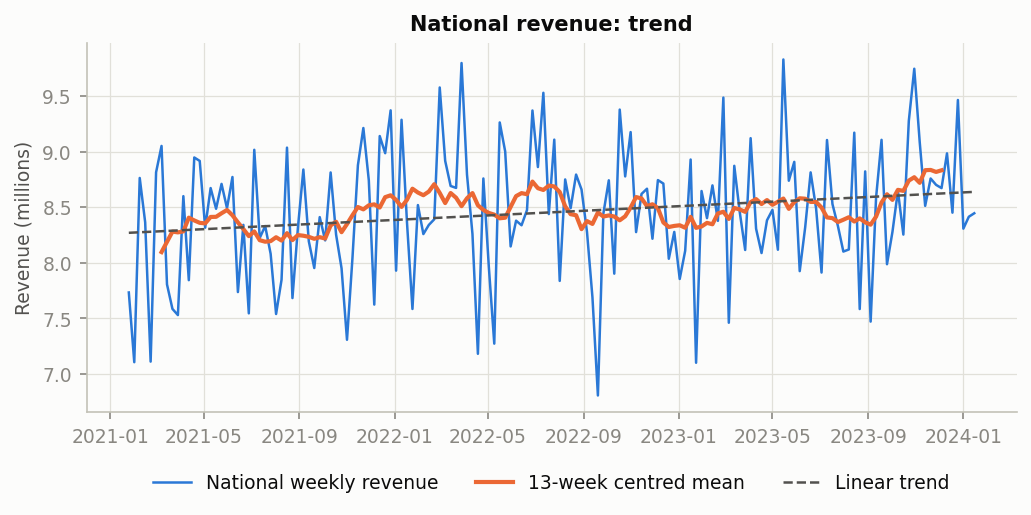
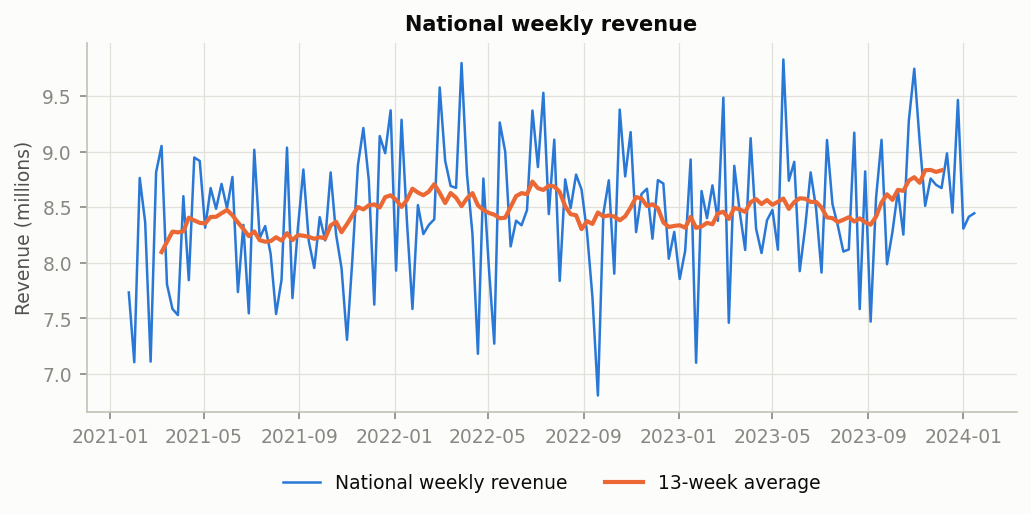
EDA trend: replace the trend tests with revenue per 52-week year and year-on-year growth (2.1% then 0.4%, a slowdown within the range of noise); README wording follows

diff --git a/scripts/01_eda/eda.py b/scripts/01_eda/eda.py
@@ -32,8 +32,6 @@ OUT = OUTPUTS / "01_eda"
 N_SIM = 10_000
 MAX_LAG = 8
 SEASON = 52
-# Newey-West bandwidth rule floor(4 (T/100)^(2/9)).
-def nw_lags(n): return int(np.floor(4 * (n / 100) ** (2 / 9)))
 
 DIVERGING = LinearSegmentedColormap.from_list(
     "div", ["#eb6834", "#f3f2ee", "#2a78d6"])
@@ -104,38 +102,30 @@ def national_series(df):
   return df.groupby(TIME)["revenue"].sum()
 
 
-def trend_test(nat):
-  y = nat.to_numpy()
-  n = len(y)
-  t = np.arange(n) / 52.0
-  X = sm.add_constant(t)
-  fit = sm.OLS(y, X).fit(cov_type="HAC", cov_kwds={"maxlags": nw_lags(n)})
-  res = {"slope_per_year_pct_of_mean": float(100 * fit.params[1] / y.mean()),
-         "t": float(fit.tvalues[1]), "p_value": float(fit.pvalues[1]),
-         "hac_maxlags": nw_lags(n)}
-  # Is a straight line enough? Add yearly hinge terms (a piecewise-linear trend
-  # with breaks at weeks 52 and 104) and test them jointly with HAC SEs.
-  tw = np.arange(n)
-  Xh = np.column_stack([X, np.maximum(0, tw - 52) / 52.0, np.maximum(0, tw - 104) / 52.0])
-  fit_h = sm.OLS(y, Xh).fit(cov_type="HAC", cov_kwds={"maxlags": nw_lags(n)})
-  wald = fit_h.wald_test(np.eye(4)[2:], scalar=True)
-  res["piecewise_yearly_vs_linear"] = {
-      "wald_stat": float(wald.statistic), "df": 2, "p_value": float(wald.pvalue),
-      "linear_rejected_5pct": bool(wald.pvalue < 0.05)}
-  res["first_52_vs_last_52_revenue_pct"] = float(100 * (y[-52:].sum() / y[:52].sum() - 1))
+def trend(nat):
+  """National revenue per 52-week year and its year-on-year growth.
+
+  The data start in late January, so each "year" is a block of 52 weeks, not a
+  calendar year.
+  """
+  weeks = nat.index
+  years = []
+  for k in range(len(nat) // SEASON):
+    block = nat.iloc[k * SEASON:(k + 1) * SEASON]
+    years.append({"year": k + 1, "first_week": str(weeks[k * SEASON].date()),
+                  "last_week": str(weeks[(k + 1) * SEASON - 1].date()),
+                  "revenue": float(block.sum())})
+  for prev, cur in zip(years, years[1:]):
+    cur["growth_vs_previous_year"] = cur["revenue"] / prev["revenue"] - 1
 
   fig, ax = plt.subplots(figsize=(8, 3.2))
-  ax.plot(nat.index, y / 1e6, color=PALETTE[0], lw=1.2, label="National weekly revenue")
-  ma = pd.Series(y).rolling(13, center=True).mean()
-  ax.plot(nat.index, ma / 1e6, color=PALETTE[1], lw=2, label="13-week centred mean")
-  fit = sm.OLS(y, X).fit()
-  ax.plot(nat.index, fit.fittedvalues / 1e6, color=INK_2, lw=1.2, ls="--",
-          label="Linear trend")
+  ax.plot(weeks, nat.to_numpy() / 1e6, color=PALETTE[0], lw=1.2, label="National weekly revenue")
+  ma = nat.rolling(13, center=True).mean()
+  ax.plot(weeks, ma.to_numpy() / 1e6, color=PALETTE[1], lw=2, label="13-week average")
   ax.set_ylabel("Revenue (millions)")
-  ax.set_title("National revenue: trend")
-  ax.legend(loc="upper center", bbox_to_anchor=(0.5, -0.12), ncol=3)
-  res["figure"] = savefig(fig, "national_trend.png")
-  return res
+  ax.set_title("National weekly revenue")
+  ax.legend(loc="upper center", bbox_to_anchor=(0.5, -0.12), ncol=2)
+  return {"years": years, "figure": savefig(fig, "national_trend.png")}
 
 
 def woy_r2(Y, period=SEASON):
@@ -434,7 +424,7 @@ def main():
   summary["data"]["figure_spend_share"] = spend_share_fig(summary["data"])
   summary["summary_stats"] = summary_stats(df)
   summary["cpm"] = cpm_check(df)
-  summary["trend"] = trend_test(nat)
+  summary["trend"] = trend(nat)
   summary["seasonality"] = seasonality_test(df, nat)
   summary["noise_floor"] = noise_floor(df, nat)
   summary["lag_correlation"] = lag_correlations(df)

diff --git a/scripts/01_eda/eda_findings.py b/scripts/01_eda/eda_findings.py
@@ -12,9 +12,11 @@ s = json.load(open(OUTPUTS / "01_eda" / "eda_summary.json"))
 d, cpm, tr, se, nf = s["data"], s["cpm"], s["trend"], s["seasonality"], s["noise_floor"]
 lag, col, pop = s["lag_correlation"], s["collinearity"], s["population"]
 gm, cc = s["spend_vs_geo_max"], s["controls_confounding"]
-t = tr
 pct = lambda x, n=1: f"{100 * x:.{n}f}%"
 fig = lambda p: f"![]({p.replace('reports/', '')})"
+growth_text = " then ".join(pct(y["growth_vs_previous_year"]) for y in tr["years"][1:])
+# Noise in a 52-week total: weekly variation shrinks with the square root of the number of weeks.
+year_noise = nf["national_weekly_cv"] / 52 ** 0.5
 max_lag_r = max(abs(v) for k in ("geo_demeaned", "geo_demeaned_partial_controls")
                 for c in CHANNELS for v in lag[k][c])
 comp = cc["within_geo_corr"]["competitor_sales_control"]
@@ -100,17 +102,21 @@ lines = [
     *[f"| {c} | {cpm[c]['min']:.2f} | {cpm[c]['median']:.2f} | {cpm[c]['max']:.2f} |" for c in CHANNELS],
     "",
     "",
-    "## Revenue grows slowly and steadily",
-    f"National revenue grows by about {t['slope_per_year_pct_of_mean']:.1f}% a year, and a straight line "
-    "describes that growth well: letting the trend bend at the start of each year does not improve the fit. "
-    "**For the model:** a straight-line baseline is enough (`knots = 2`: one knot at each end of the series, "
-    "no bends in between).",
-    *details(f"Trend: {t['slope_per_year_pct_of_mean']:.2f}% of mean revenue per year, p = {t['p_value']:.3f} "
-             "(regression with autocorrelation-robust standard errors).",
-             f"Letting the trend bend at weeks 52 and 104 (4 knots instead of 2) does not fit better than a "
-             f"straight line: p = "
-             f"{tr['piecewise_yearly_vs_linear']['p_value']:.2f}.",
-             f"Last 52 weeks vs first 52 weeks: {tr['first_52_vs_last_52_revenue_pct']:+.1f}%."),
+    "## Revenue grows slowly",
+    "Revenue per year (each year is a block of 52 weeks, starting in late January):",
+    "",
+    "| year | weeks | revenue | growth vs previous year |",
+    "|---|---|---|---|",
+    *[f"| {y['year']} | {y['first_week']} to {y['last_week']} | {y['revenue'] / 1e6:,.0f}M | "
+      f"{pct(y['growth_vs_previous_year']) if 'growth_vs_previous_year' in y else '-'} |" for y in tr["years"]],
+    "",
+    f"Growth slowed: {growth_text} a year. Part of that is noise. Weekly revenue varies by about "
+    f"{pct(nf['national_weekly_cv'])} around its level, so a 52-week total varies by about "
+    f"{pct(year_noise)} from noise alone, and the difference between two years' growth rates by about "
+    f"{pct(year_noise * 2 ** 0.5)}. The slowdown is about that size: it may be real, but the data cannot confirm it. "
+    "**For the model:** a straight-line baseline (`knots = 2`: one knot at each end of the series, no bends in "
+    "between) is a reasonable simplification; letting it bend a little is one of the next steps.",
+    "",
     fig(tr["figure"]),
     "",
     "## No yearly seasonality",

diff --git a/reports/eda.md b/reports/eda.md
@@ -52,16 +52,16 @@ In every channel, spend is exactly impressions times a constant CPM: the lowest 
 | Channel4 | 7.79 | 7.79 | 7.79 |
 
 
-## Revenue grows slowly and steadily
-National revenue grows by about 1.5% a year, and a straight line describes that growth well: letting the trend bend at the start of each year does not improve the fit. **For the model:** a straight-line baseline is enough (`knots = 2`: one knot at each end of the series, no bends in between).
+## Revenue grows slowly
+Revenue per year (each year is a block of 52 weeks, starting in late January):
 
-<details><summary>Technical details</summary>
+| year | weeks | revenue | growth vs previous year |
+|---|---|---|---|
+| 1 | 2021-01-25 to 2022-01-17 | 433M | - |
+| 2 | 2022-01-24 to 2023-01-16 | 442M | 2.1% |
+| 3 | 2023-01-23 to 2024-01-15 | 444M | 0.4% |
 
-- Trend: 1.46% of mean revenue per year, p = 0.010 (regression with autocorrelation-robust standard errors).
-- Letting the trend bend at weeks 52 and 104 (4 knots instead of 2) does not fit better than a straight line: p = 0.10.
-- Last 52 weeks vs first 52 weeks: +2.6%.
-
-</details>
+Growth slowed: 2.1% then 0.4% a year. Part of that is noise. Weekly revenue varies by about 6.9% around its level, so a 52-week total varies by about 1.0% from noise alone, and the difference between two years' growth rates by about 1.4%. The slowdown is about that size: it may be real, but the data cannot confirm it. **For the model:** a straight-line baseline (`knots = 2`: one knot at each end of the series, no bends in between) is a reasonable simplification; letting it bend a little is one of the next steps.
 
 ![](figures/eda/national_trend.png)
 

diff --git a/README.md b/README.md
@@ -28,7 +28,7 @@ Anything shared from this model should come with these caveats.
 Defined in [`config/model.toml`](config/model.toml):
 
 - **Underlying demand** follows a straight-line trend (`knots = 2`: one knot at each end of the
-  series, so no bends), because the data show steady growth and no yearly seasonality.
+  series, so no bends), because the data show slow growth and no yearly seasonality.
 - **Media** has effects that carry over for up to 4 weeks and that flatten out as spend grows.
 - **Geos share information:** a channel is assumed to work similarly across geos, because
   each geo's own data are too noisy to estimate it alone.
@@ -131,7 +131,8 @@ organic channel. It is committed in `data/raw/` (from a fixed version of Meridia
 checked before use. What we learned from it: [reports/eda.md](reports/eda.md).
 
 - **Data quality:** the data are complete and clean.
-- **Trend and seasonality:** revenue grows about 1.5% a year, with no meaningful yearly seasonality.
+- **Trend and seasonality:** revenue grew 2.1% then 0.4% a year (a slowdown within the range of noise),
+  with no meaningful yearly seasonality.
 - **Noise:** weekly revenue is noisy, about 30% up or down per geo and 6.9% nationally, which limits
   how precise any model can be.
 - **Media signal:** media's effect is hard to see in the raw data, so the model has to pool geos to
